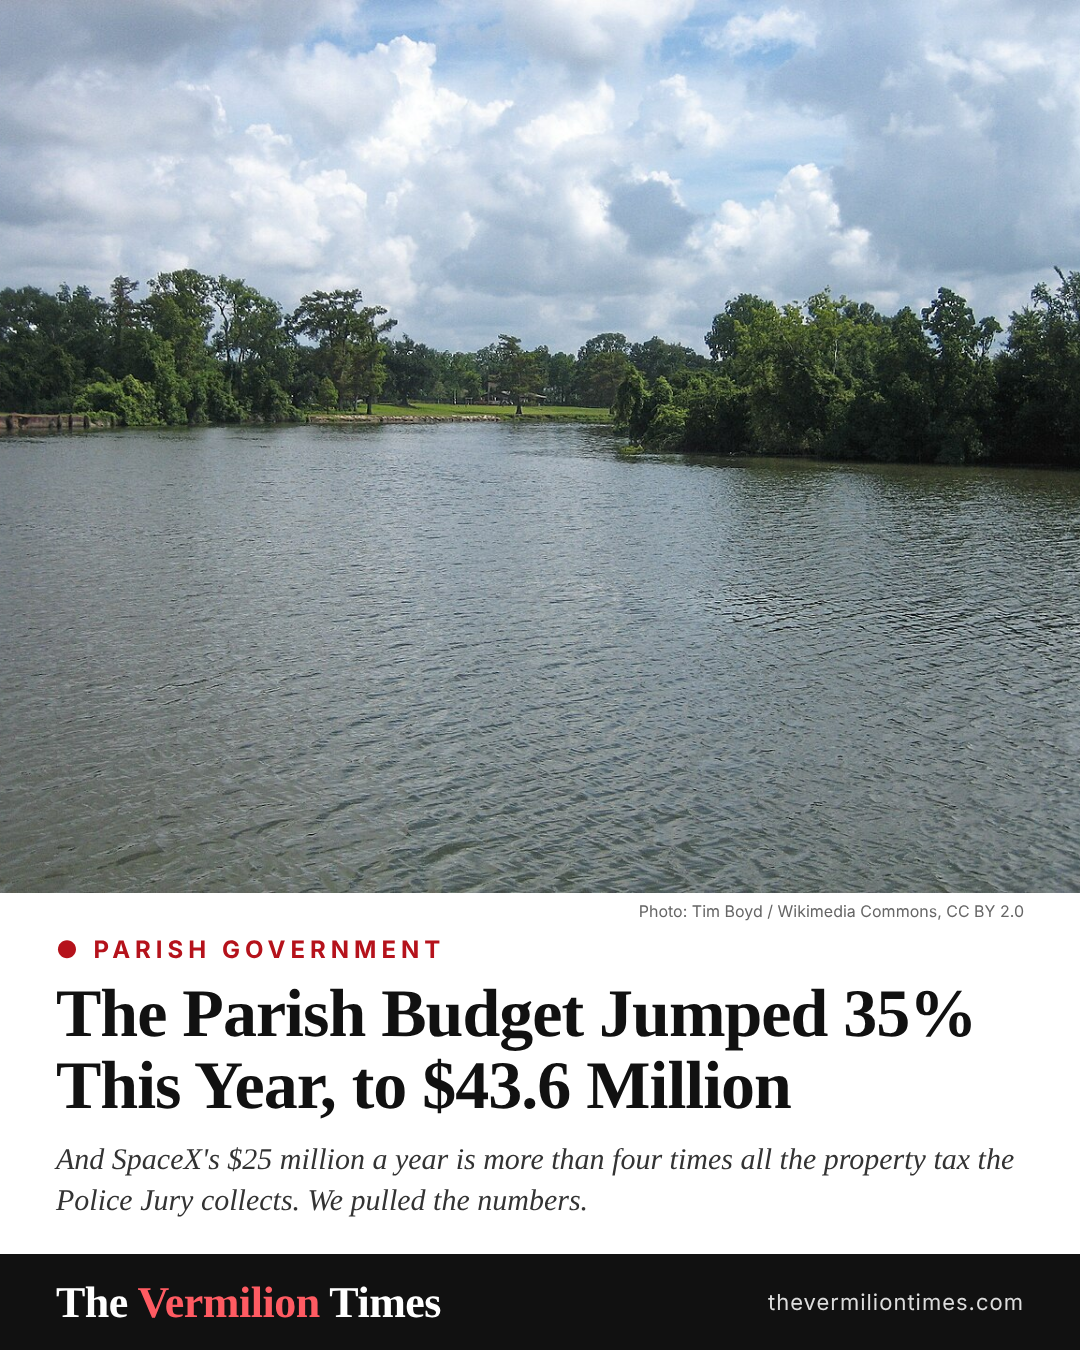
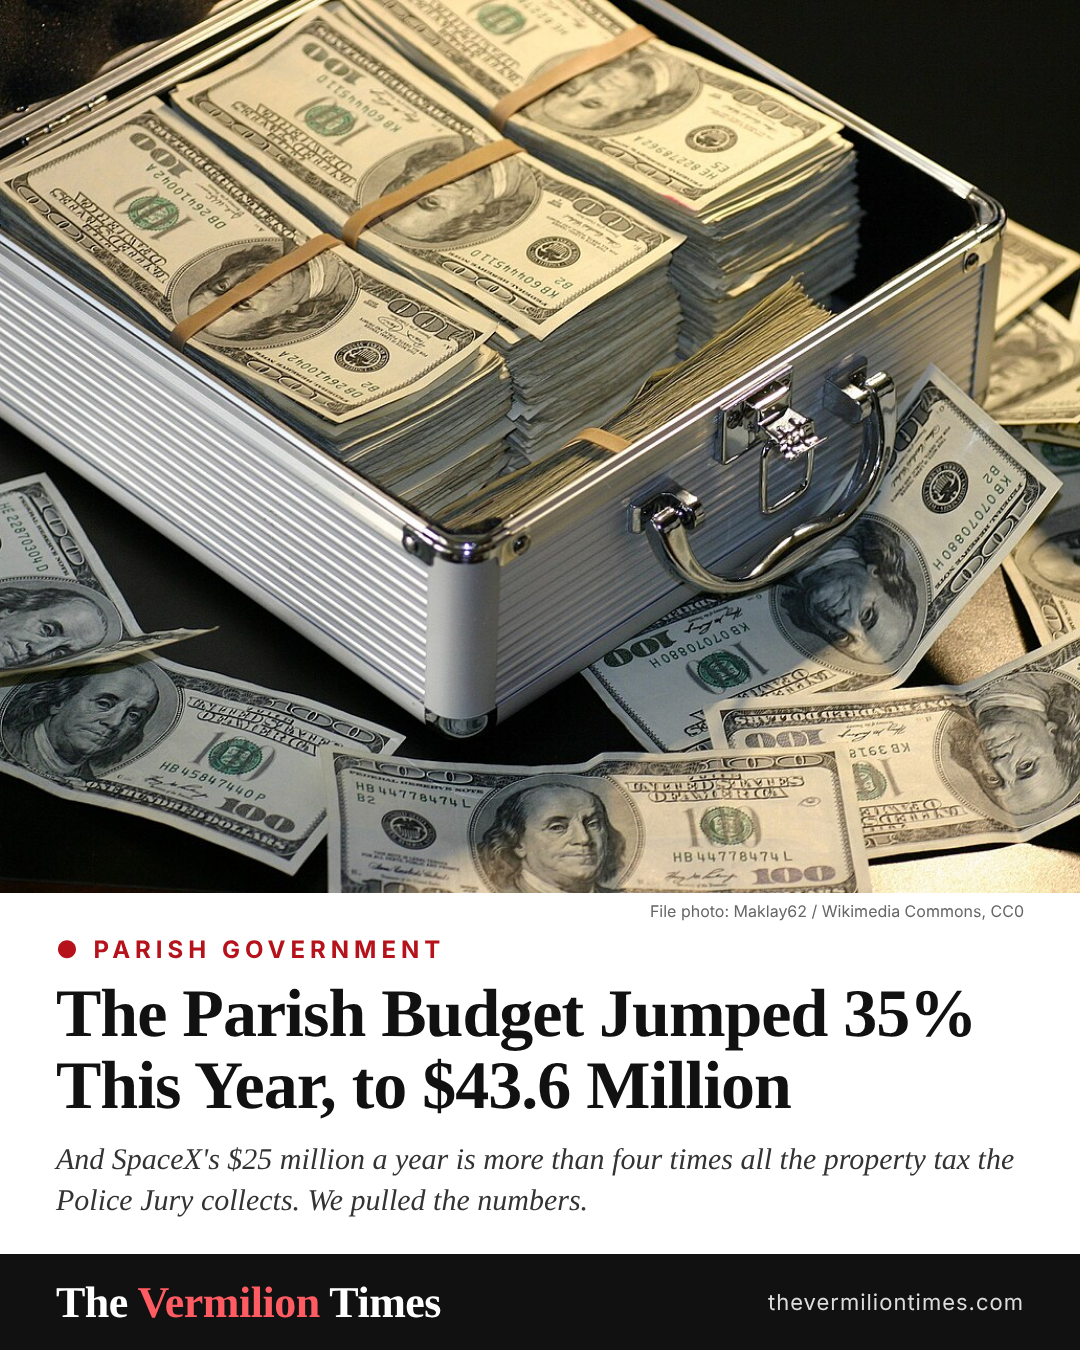
Budget story: replace the photo
Claude-Session: https://claude.ai/code/session_01JezmdTsVEMJTtk9244swws

diff --git a/government/index.html b/government/index.html
@@ -14,7 +14,7 @@
 <meta property="og:title" content="Vermilion Parish Government News | The Vermilion Times">
 <meta property="og:description" content="Police Jury, city councils and the school board: what was decided, what it costs and who voted how.">
 <meta property="og:url" content="https://thevermiliontimes.com/government/">
-<meta property="og:image" content="https://thevermiliontimes.com/img/photos/local-vermilion-river.jpg">
+<meta property="og:image" content="https://thevermiliontimes.com/img/photos/us-hundred-dollar-bills-cc0.jpg">
 <meta name="twitter:card" content="summary_large_image">
 <link rel="icon" type="image/png" sizes="32x32" href="/img/brand/icon-32.png">
 <link rel="icon" type="image/png" sizes="192x192" href="/img/brand/icon-192.png">
@@ -42,7 +42,7 @@
 <article class="page section-page"><p class="kicker">Parish Government</p><h1>Police Jury &amp; Courthouse</h1><p class="deck">Police Jury, city councils and the school board: what was decided, what it costs and who voted how.</p>
   
   
-  <h2 class="list-head">Latest Parish Government Stories</h2><ol class="news-list"><li id="parish-budget-up-35-percent-what-spacex-25-million-would-mean"><a href="/news/parish-budget-up-35-percent-what-spacex-25-million-would-mean/" tabindex="-1" aria-hidden="true" class="art-link"><figure class="thumb-art"><picture><source type="image/webp" srcset="/img/photos/local-vermilion-river-640.webp 640w, /img/photos/local-vermilion-river-1280.webp 1280w" sizes="(max-width: 1000px) 40vw, 200px"><img src="/img/photos/local-vermilion-river.jpg" alt="The Vermilion River at Abbeville, a wide stretch of water lined with trees under a sky full of clouds" width="1280" height="954" loading="lazy" decoding="async"></picture></figure></a><p class="kicker">Parish Government<span class="new-tag" data-pub="2026-11-26T13:30:00-06:00" hidden>New</span></p><h2 class="h-1"><a href="/news/parish-budget-up-35-percent-what-spacex-25-million-would-mean/">The Parish Budget Jumped 35% This Year, to $43.6 Million. Here’s How SpaceX’s $25 Million a Year Compares</a></h2>
+  <h2 class="list-head">Latest Parish Government Stories</h2><ol class="news-list"><li id="parish-budget-up-35-percent-what-spacex-25-million-would-mean"><a href="/news/parish-budget-up-35-percent-what-spacex-25-million-would-mean/" tabindex="-1" aria-hidden="true" class="art-link"><figure class="thumb-art"><picture><source type="image/webp" srcset="/img/photos/us-hundred-dollar-bills-cc0-640.webp 640w, /img/photos/us-hundred-dollar-bills-cc0-1280.webp 1280w" sizes="(max-width: 1000px) 40vw, 200px"><img src="/img/photos/us-hundred-dollar-bills-cc0.jpg" alt="Banded stacks of hundred-dollar bills fill an open metal case, with more bills spread on the table around it" width="1280" height="853" loading="lazy" decoding="async"></picture></figure></a><p class="kicker">Parish Government<span class="new-tag" data-pub="2026-11-26T13:30:00-06:00" hidden>New</span></p><h2 class="h-1"><a href="/news/parish-budget-up-35-percent-what-spacex-25-million-would-mean/">The Parish Budget Jumped 35% This Year, to $43.6 Million. Here’s How SpaceX’s $25 Million a Year Compares</a></h2>
       <p class="summary">The Police Jury planned to spend $11.4 million more in 2026 than in 2025, its own records show. All the property tax it collects in a year comes to less than $6 million.</p><p class="meta"><time class="ts" datetime="2026-11-26T13:30:00-06:00" data-pub="2026-11-26T13:30:00-06:00">Nov. 26, 2026</time></p></li><li id="police-jury-wednesday-2027-budget-spacex-lawsuit-mosquito-plane"><a href="/news/police-jury-wednesday-2027-budget-spacex-lawsuit-mosquito-plane/" tabindex="-1" aria-hidden="true" class="art-link"><figure class="thumb-art"><picture><source type="image/webp" srcset="/img/photos/downtown-abbeville-storefronts-1995-640.webp 640w, /img/photos/downtown-abbeville-storefronts-1995-1280.webp 1280w" sizes="(max-width: 1000px) 40vw, 200px"><img src="/img/photos/downtown-abbeville-storefronts-1995.jpg" alt="Black-and-white photo of brick storefronts on a corner in downtown Abbeville, with a pickup truck and cars parked along the street" width="1271" height="797" loading="lazy" decoding="async"></picture></figure></a><p class="kicker">Parish Government<span class="new-tag" data-pub="2026-11-17T16:25:00-06:00" hidden>New</span></p><h2 class="h-1"><a href="/news/police-jury-wednesday-2027-budget-spacex-lawsuit-mosquito-plane/">Police Jury Wednesday: 2027 Budget Vote, a Response to the SpaceX Tax Deal Lawsuit and an Emergency Fix for the Mosquito Plane</a></h2>
       <p class="summary">Jurors meet at 5:30 p.m. at the courthouse, first to adopt next year’s budget and then for their regular monthly meeting. The agenda was posted Tuesday afternoon.</p><p class="meta"><time class="ts" datetime="2026-11-17T16:25:00-06:00" data-pub="2026-11-17T16:25:00-06:00">Nov. 17, 2026</time></p></li><li id="sheriffs-office-langlinais-not-opposed-rv-parks"><a href="/news/sheriffs-office-langlinais-not-opposed-rv-parks/" tabindex="-1" aria-hidden="true" class="art-link"><figure class="thumb-art"><picture><source type="image/webp" srcset="/img/photos/downtown-abbeville-towered-building-1995-640.webp 640w, /img/photos/downtown-abbeville-towered-building-1995-1280.webp 1280w" sizes="(max-width: 1000px) 40vw, 200px"><img src="/img/photos/downtown-abbeville-towered-building-1995.jpg" alt="Black-and-white photo of a two-story brick building with two pointed corner towers and a stone arched entrance in downtown Abbeville" width="845" height="1232" loading="lazy" decoding="async"></picture></figure></a><p class="kicker">Parish Government<span class="new-tag" data-pub="2026-11-17T16:15:00-06:00" hidden>New</span></p><h2 class="h-1"><a href="/news/sheriffs-office-langlinais-not-opposed-rv-parks/">Sheriff’s Office: Langlinais Has Not Said RV Parks Are Banned, and He ‘Is Not Opposed’ to Them</a></h2>
       <p class="summary">Answering questions from the Times, the Sheriff’s Office also said it has no say over RV park permits. Those calls belong to local governing bodies, and Abbeville’s council takes up new RV parks tonight.</p><p class="meta"><time class="ts" datetime="2026-11-17T16:15:00-06:00" data-pub="2026-11-17T16:15:00-06:00">Nov. 17, 2026</time></p></li><li id="abbeville-council-tonight-rv-parks-meadows-phase-ii"><a href="/news/abbeville-council-tonight-rv-parks-meadows-phase-ii/" tabindex="-1" aria-hidden="true" class="art-link"><figure class="thumb-art"><picture><source type="image/webp" srcset="/img/photos/downtown-abbeville-state-street-1995-640.webp 640w, /img/photos/downtown-abbeville-state-street-1995-1280.webp 1280w" sizes="(max-width: 1000px) 40vw, 200px"><img src="/img/photos/downtown-abbeville-state-street-1995.jpg" alt="Black-and-white photo of a row of two-story brick storefronts along State Street in downtown Abbeville, with pickup trucks parked along the curb" width="1267" height="753" loading="lazy" decoding="async"></picture></figure></a><p class="kicker">Parish Government<span class="new-tag" data-pub="2026-11-17T06:10:00-06:00" hidden>New</span></p><h2 class="h-1"><a href="/news/abbeville-council-tonight-rv-parks-meadows-phase-ii/">Abbeville Council Tonight: New RV Parks, The Meadows Phase II and Repairs at the Government Building</a></h2>

diff --git a/news/index.html b/news/index.html
@@ -39,7 +39,7 @@
   <a class="search-btn" href="/search/" aria-label="Search the Times"><svg viewBox="0 0 24 24" width="22" height="22" aria-hidden="true"><circle cx="10.5" cy="10.5" r="6.5" fill="none" stroke="currentColor" stroke-width="2"/><path d="M15.5 15.5 21 21" stroke="currentColor" stroke-width="2" stroke-linecap="round"/></svg></a>
 </div></nav>
 <main id="main" class="wrap">
-<article class="page news-index"><span id="local"></span><span id="government"></span><span id="safety"></span><span id="louisiana"></span><span id="world"></span><span id="schools"></span><span id="sports"></span><span id="business"></span><span id="starbase"></span><span id="land-water"></span><span id="faith"></span><span id="opinion"></span><span id="obituaries"></span><p class="kicker">The News</p><h1>Latest News</h1><p class="deck">Every story in The Vermilion Times, newest first.</p><ol class="news-list"><li id="parish-budget-up-35-percent-what-spacex-25-million-would-mean"><a href="/news/parish-budget-up-35-percent-what-spacex-25-million-would-mean/" tabindex="-1" aria-hidden="true" class="art-link"><figure class="thumb-art"><picture><source type="image/webp" srcset="/img/photos/local-vermilion-river-640.webp 640w, /img/photos/local-vermilion-river-1280.webp 1280w" sizes="(max-width: 1000px) 40vw, 200px"><img src="/img/photos/local-vermilion-river.jpg" alt="The Vermilion River at Abbeville, a wide stretch of water lined with trees under a sky full of clouds" width="1280" height="954" loading="lazy" decoding="async"></picture></figure></a><p class="kicker">Parish Government</p><h2 class="h-1"><a href="/news/parish-budget-up-35-percent-what-spacex-25-million-would-mean/">The Parish Budget Jumped 35% This Year, to $43.6 Million. Here’s How SpaceX’s $25 Million a Year Compares</a></h2>
+<article class="page news-index"><span id="local"></span><span id="government"></span><span id="safety"></span><span id="louisiana"></span><span id="world"></span><span id="schools"></span><span id="sports"></span><span id="business"></span><span id="starbase"></span><span id="land-water"></span><span id="faith"></span><span id="opinion"></span><span id="obituaries"></span><p class="kicker">The News</p><h1>Latest News</h1><p class="deck">Every story in The Vermilion Times, newest first.</p><ol class="news-list"><li id="parish-budget-up-35-percent-what-spacex-25-million-would-mean"><a href="/news/parish-budget-up-35-percent-what-spacex-25-million-would-mean/" tabindex="-1" aria-hidden="true" class="art-link"><figure class="thumb-art"><picture><source type="image/webp" srcset="/img/photos/us-hundred-dollar-bills-cc0-640.webp 640w, /img/photos/us-hundred-dollar-bills-cc0-1280.webp 1280w" sizes="(max-width: 1000px) 40vw, 200px"><img src="/img/photos/us-hundred-dollar-bills-cc0.jpg" alt="Banded stacks of hundred-dollar bills fill an open metal case, with more bills spread on the table around it" width="1280" height="853" loading="lazy" decoding="async"></picture></figure></a><p class="kicker">Parish Government</p><h2 class="h-1"><a href="/news/parish-budget-up-35-percent-what-spacex-25-million-would-mean/">The Parish Budget Jumped 35% This Year, to $43.6 Million. Here’s How SpaceX’s $25 Million a Year Compares</a></h2>
       <p class="summary">The Police Jury planned to spend $11.4 million more in 2026 than in 2025, its own records show. All the property tax it collects in a year comes to less than $6 million.</p><p class="meta"><time class="ts" datetime="2026-11-26T13:30:00-06:00" data-pub="2026-11-26T13:30:00-06:00">Nov. 26, 2026</time></p></li><li id="spacex-leasing-pecan-island-school-ul-lafayette-40-years-10-million"><a href="/news/spacex-leasing-pecan-island-school-ul-lafayette-40-years-10-million/" tabindex="-1" aria-hidden="true" class="art-link"><figure class="thumb-art"><picture><source type="image/webp" srcset="/img/photos/pecan-island-school-john-brothers-ull-640.webp 640w, /img/photos/pecan-island-school-john-brothers-ull-1280.webp 1280w" sizes="(max-width: 1000px) 40vw, 200px"><img src="/img/photos/pecan-island-school-john-brothers-ull.jpg" alt="Two men stand on the front steps of a red brick school building with white columns and the words PECAN ISLAND SCHOOL across the top" width="1600" height="1636" loading="lazy" decoding="async"></picture></figure></a><p class="kicker">Starbase Louisiana</p><h2 class="h-1"><a href="/news/spacex-leasing-pecan-island-school-ul-lafayette-40-years-10-million/">SpaceX Is Leasing the Old Pecan Island School for 40 Years and Will Put at Least $10 Million Into It</a></h2>
       <p class="summary">UL Lafayette, which was given the building last year, announced the deal Wednesday. The agreement also allows for a sale. The university did not say what SpaceX will use it for.</p><p class="meta"><time class="ts" datetime="2026-11-26T08:10:00-06:00" data-pub="2026-11-26T08:10:00-06:00">Nov. 26, 2026</time></p></li><li id="state-puts-spacex-coastal-permit-on-hold-asks-missing-information"><a href="/news/state-puts-spacex-coastal-permit-on-hold-asks-missing-information/" tabindex="-1" aria-hidden="true" class="art-link"><figure class="thumb-art"><picture><source type="image/webp" srcset="/img/photos/la-3147-freshwater-city-road-sign-640.webp 640w, /img/photos/la-3147-freshwater-city-road-sign-1280.webp 1280w" sizes="(max-width: 1000px) 40vw, 200px"><img src="/img/photos/la-3147-freshwater-city-road-sign.jpg" alt="A black and white Louisiana highway marker for LA 3147 on a post beside a field of dry marsh grass and scrub trees under a gray sky" width="1200" height="1600" loading="lazy" decoding="async"></picture></figure></a><p class="kicker">Starbase Louisiana</p><h2 class="h-1"><a href="/news/state-puts-spacex-coastal-permit-on-hold-asks-missing-information/">State Puts SpaceX’s Pecan Island Permit on Hold and Asks for Pages of Missing Information</a></h2>
       <p class="summary">The coastal permit for the wharf, canal and haul road went on hold Monday, five days after it went out for public comment. The state’s top regulator says the review has not stopped.</p><p class="meta"><time class="ts" datetime="2026-11-26T07:05:00-06:00" data-pub="2026-11-26T07:05:00-06:00">Nov. 26, 2026</time></p></li><li id="jobless-claims-fall-189000-lowest-since-1969-louisiana-down"><a href="/news/jobless-claims-fall-189000-lowest-since-1969-louisiana-down/" tabindex="-1" aria-hidden="true" class="art-link"><figure class="thumb-art"><picture><source type="image/webp" srcset="/img/photos/workers-hard-hats-17th-street-canal-usace-2024-640.webp 640w, /img/photos/workers-hard-hats-17th-street-canal-usace-2024-1280.webp 1280w" sizes="(max-width: 1000px) 40vw, 200px"><img src="/img/photos/workers-hard-hats-17th-street-canal-usace-2024.jpg" alt="Two workers in white hard hats and bright safety vests lean over a handheld instrument on a job site" width="1280" height="852" loading="lazy" decoding="async"></picture></figure></a><p class="kicker">Nation &amp; World</p><h2 class="h-1"><a href="/news/jobless-claims-fall-189000-lowest-since-1969-louisiana-down/">New Unemployment Claims Fall to 189,000, Matching the Lowest Level Since 1969. Louisiana’s Are Down 29% From Last Year</a></h2>

diff --git a/starbase/index.html b/starbase/index.html
@@ -41,7 +41,7 @@
 <main id="main" class="wrap">
 <article class="page section-page"><p class="kicker">Starbase Louisiana</p><h1>SpaceX Louisiana: Starbase Louisiana News, Jobs, Map and Timeline</h1><p class="deck">Everything about SpaceX&rsquo;s planned Starbase Louisiana launch site at Pecan Island: the jobs, the location, the money, the decisions and the open questions, reported plainly so readers can decide for themselves.</p>
       <p class="disclose">Disclosure: Brison McPhail, publisher of the Times, also owns Rocket Farm, an RV park in Kaplan. Stories that touch it say so.</p>
-  <section class="live-watch" id="live" aria-labelledby="live-h" data-fetched="2026-11-26T10:10-06:00">
+  <section class="live-watch" id="live" aria-labelledby="live-h" data-fetched="2026-11-26T10:15-06:00">
   <h2 id="live-h" class="label">Live: SpaceX Louisiana Watch</h2>
   <nav class="lv-jump" aria-label="On this page"><a href="#lv-launch-h">Launches</a><a href="#lv-radar-h">Radar</a><a href="#lv-sky-h">Night sky</a><a href="#lv-jobs-h">Jobs</a><a href="#lv-roads-h">Roads</a></nav>
   <div class="lv-alerts" id="lv-alerts" hidden><p class="label">Weather alerts for Pecan Island</p><ul></ul></div>
@@ -81,7 +81,7 @@
     <noscript><p>Turn on JavaScript to see tonight&rsquo;s sky.</p></noscript></div>
   <div class="lv-card lv-wide"><h3 class="label" id="lv-jobs-h">SpaceX Jobs at Pecan Island</h3><ul class="lv-jobs lv-cols" id="lv-jobs"><li><a href="https://boards.greenhouse.io/spacex/jobs/8814619002?gh_jid=8814619002" rel="noopener">Civil Engineer, Land Development (Starbase Infrastructure - Louisiana)</a></li><li><a href="https://boards.greenhouse.io/spacex/jobs/8926138002?gh_jid=8926138002" rel="noopener">Communications Lead</a></li><li><a href="https://boards.greenhouse.io/spacex/jobs/8936748002?gh_jid=8936748002" rel="noopener">Director, Materials Management (Starbase Infrastructure - Louisiana)</a></li><li><a href="https://boards.greenhouse.io/spacex/jobs/8940343002?gh_jid=8940343002" rel="noopener">Manager, Environmental Health &amp; Safety</a></li><li><a href="https://boards.greenhouse.io/spacex/jobs/8814705002?gh_jid=8814705002" rel="noopener">Sr. Construction Project Manager (Starship Infrastructure - Louisiana)</a></li><li><a href="https://boards.greenhouse.io/spacex/jobs/8882178002?gh_jid=8882178002" rel="noopener">Sr. Construction Safety Engineer</a></li><li><a href="https://boards.greenhouse.io/spacex/jobs/8882126002?gh_jid=8882126002" rel="noopener">Sr. Environmental Engineer</a></li><li><a href="https://boards.greenhouse.io/spacex/jobs/8933851002?gh_jid=8933851002" rel="noopener">Sr. Environmental Engineer, Wetlands &amp; Regulatory Compliance</a></li><li><a href="https://boards.greenhouse.io/spacex/jobs/8932782002?gh_jid=8932782002" rel="noopener">Sr. Environmental Regulatory Engineer, Air Permitting</a></li><li><a href="https://boards.greenhouse.io/spacex/jobs/8882063002?gh_jid=8882063002" rel="noopener">Sr. Manager, Environmental Health &amp; Safety</a></li><li><a href="https://boards.greenhouse.io/spacex/jobs/8943802002?gh_jid=8943802002" rel="noopener">Sr. Physical Security Hardware Specialist</a></li></ul>
     <p class="lv-src">Live from <a href="https://boards.greenhouse.io/spacex" rel="noopener">SpaceX&rsquo;s job board</a>. <a href="/news/spacex-louisiana-jobs-pecan-island/">Our story on the first openings.</a></p></div>
-  <p class="lv-updated meta">Data last refreshed <span id="lv-fetched">Nov. 26, 10:10 a.m. CT</span>.</p>
+  <p class="lv-updated meta">Data last refreshed <span id="lv-fetched">Nov. 26, 10:15 a.m. CT</span>.</p>
 </section>
 <script src="/assets/watch.js" defer></script>
 <script src="https://cdn.jsdelivr.net/npm/astronomy-engine@2.1.19/astronomy.browser.min.js" integrity="sha384-LTVHvxfbG3XHla4Lu0C0s9U18B2sBOuzJIeOoVHm2t05SOOORvMbBMEVjXrGau9g" crossorigin="anonymous" defer></script>

diff --git a/news/parish-budget-up-35-percent-what-spacex-25-million-would-mean/index.html b/news/parish-budget-up-35-percent-what-spacex-25-million-would-mean/index.html
@@ -14,7 +14,7 @@
 <meta property="og:title" content="The Parish Budget Jumped 35% This Year, to $43.6 Million. Here’s How SpaceX’s $25 Million a Year Compares | The Vermilion Times">
 <meta property="og:description" content="The Police Jury planned to spend $11.4 million more in 2026 than in 2025, its own records show. All the property tax it collects in a year comes to less...">
 <meta property="og:url" content="https://thevermiliontimes.com/news/parish-budget-up-35-percent-what-spacex-25-million-would-mean/">
-<meta property="og:image" content="https://thevermiliontimes.com/img/photos/local-vermilion-river.jpg">
+<meta property="og:image" content="https://thevermiliontimes.com/img/photos/us-hundred-dollar-bills-cc0.jpg">
 <meta name="twitter:card" content="summary_large_image">
 <link rel="icon" type="image/png" sizes="32x32" href="/img/brand/icon-32.png">
 <link rel="icon" type="image/png" sizes="192x192" href="/img/brand/icon-192.png">
@@ -40,7 +40,7 @@
  "isAccessibleForFree": true,
  "inLanguage": "en-US",
  "image": [
-  "https://thevermiliontimes.com/img/photos/local-vermilion-river.jpg"
+  "https://thevermiliontimes.com/img/photos/us-hundred-dollar-bills-cc0.jpg"
  ],
  "author": {
   "@type": "Organization",
@@ -111,7 +111,7 @@
   <h1>The Parish Budget Jumped 35% This Year, to $43.6 Million. Here’s How SpaceX’s $25 Million a Year Compares</h1>
   <p class="deck">The Police Jury planned to spend $11.4 million more in 2026 than in 2025, its own records show. All the property tax it collects in a year comes to less than $6 million.</p>
   <p class="byline with-photo"><img class="pub-photo" src="/img/publisher.png" width="44" height="44" alt=""><span>By The Vermilion Times &middot; Published by <a class="pub-name" href="/about/#publisher">Brison McPhail</a><br><time class="ts" datetime="2026-11-26T13:30:00-06:00" data-pub="2026-11-26T13:30:00-06:00">Nov. 26, 2026, 1:30 p.m.</time></span></p>
-  <figure class="story-art"><picture><source type="image/webp" srcset="/img/photos/local-vermilion-river-640.webp 640w, /img/photos/local-vermilion-river-1280.webp 1280w" sizes="(max-width: 760px) 100vw, 736px"><img src="/img/photos/local-vermilion-river.jpg" alt="The Vermilion River at Abbeville, a wide stretch of water lined with trees under a sky full of clouds" width="1280" height="954" fetchpriority="high" decoding="async"></picture><figcaption>The Vermilion River at Abbeville, the parish seat, where the Police Jury meets. <span class="credit"><a href="https://commons.wikimedia.org/wiki/File:Vermilion_River_Abbeville_Louisiana.jpg" rel="noopener">Photo: Tim Boyd / Wikimedia Commons, CC BY 2.0</a></span></figcaption></figure>
+  <figure class="story-art"><picture><source type="image/webp" srcset="/img/photos/us-hundred-dollar-bills-cc0-640.webp 640w, /img/photos/us-hundred-dollar-bills-cc0-1280.webp 1280w" sizes="(max-width: 760px) 100vw, 736px"><img src="/img/photos/us-hundred-dollar-bills-cc0.jpg" alt="Banded stacks of hundred-dollar bills fill an open metal case, with more bills spread on the table around it" width="1280" height="853" fetchpriority="high" decoding="async"></picture><figcaption>File photo. <span class="credit"><a href="https://commons.wikimedia.org/wiki/File:Money-1428594_1920.jpg" rel="noopener">Photo: Maklay62 / Wikimedia Commons, CC0</a></span></figcaption></figure>
   <div class="article-body">
 <p class="dropcap">How big is the parish’s budget, and how much would SpaceX’s money change it? We pulled the Police Jury’s own numbers.</p>
 <h2>The budget</h2>

diff --git a/articles/2026-11-26-parish-budget-up-35-percent-what-spacex-25-million-would-mean.md b/articles/2026-11-26-parish-budget-up-35-percent-what-spacex-25-million-would-mean.md
@@ -4,11 +4,11 @@ deck: The Police Jury planned to spend $11.4 million more in 2026 than in 2025, 
 section: government
 date: 2026-11-26
 time: 13:30
-image: /img/photos/local-vermilion-river.jpg
-image_alt: The Vermilion River at Abbeville, a wide stretch of water lined with trees under a sky full of clouds
-image_caption: "The Vermilion River at Abbeville, the parish seat, where the Police Jury meets."
-image_credit: "Photo: Tim Boyd / Wikimedia Commons, CC BY 2.0"
-image_source: https://commons.wikimedia.org/wiki/File:Vermilion_River_Abbeville_Louisiana.jpg
+image: /img/photos/us-hundred-dollar-bills-cc0.jpg
+image_alt: Banded stacks of hundred-dollar bills fill an open metal case, with more bills spread on the table around it
+image_caption: "File photo."
+image_credit: "Photo: Maklay62 / Wikimedia Commons, CC0"
+image_source: https://commons.wikimedia.org/wiki/File:Money-1428594_1920.jpg
 sources:
 - Vermilion Parish Police Jury, minutes of Dec. 17, 2025 (2026 budget message and ordinance) | https://www.vppj.org/PDFforms/minutes/2025/PJ%20Minutes%2012-17-25%20-%20SIGNED.pdf
 - Vermilion Parish Police Jury, minutes of Dec. 18, 2024 (2025 budget message and ordinance) | https://www.vppj.org/PDFforms/minutes/2024/PJ%20Minutes%2012-18-24%20-%20SIGNED.pdf
